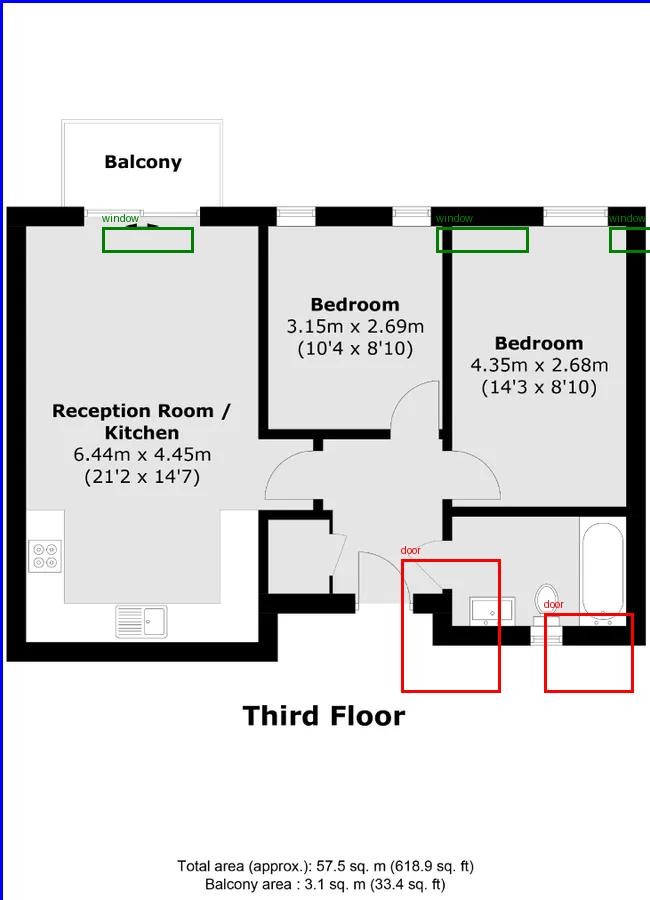
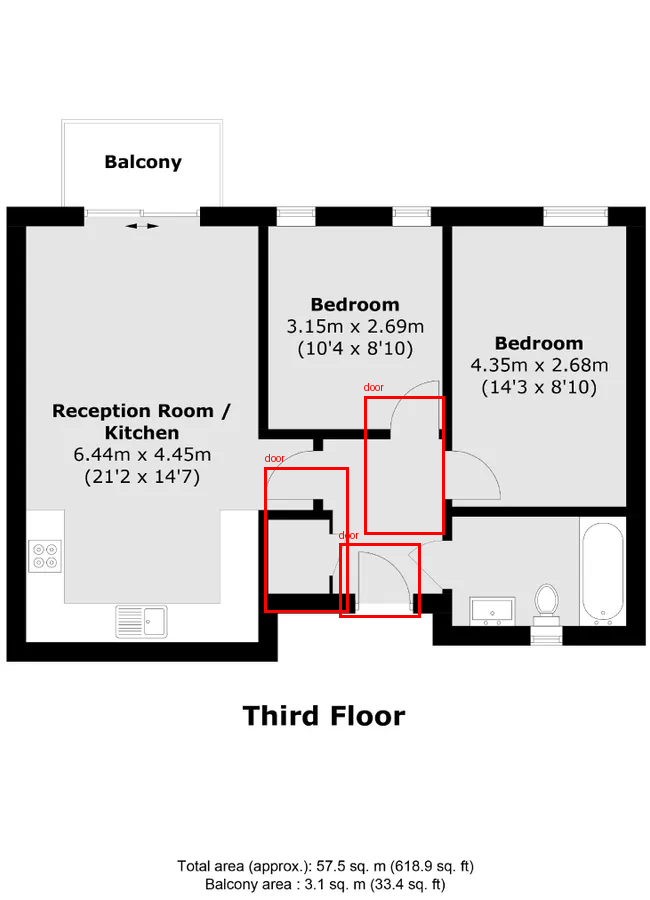
update examples

diff --git a/examples/chatgpt5_2025_11_09/model.py b/examples/chatgpt5_2025_11_09/model.py
@@ -1,86 +1,27 @@
-# Re-creating the given apartment plan with declarative-floorplan
-# The origin (0,0) is at the top-left of the canvas.
-# Units are arbitrary; proportions are chosen to match the image.
-
 from declarative_floorplan import (
     Floorplan, Vertex, Wall, Door, Window,
     Position as Pos,
     HorizontalConstraint as HC,
-    VerticalConstraint as VC,
+    VerticalConstraint as VC
 )
 
-with Floorplan("Third Floor – 2BR with Balcony") as fp:
-    # ------------------------------------------------------------
-    # Step 1 — Global positioning constraints (the "planes")
-    # ------------------------------------------------------------
-    # Horizontal guide lines (y)
-    h_0   = HC(0)     # top exterior
-    h_420 = HC(420)   # line under the two bedrooms (top of corridor/bath)
-    h_700 = HC(700)   # bottom exterior
+with Floorplan("Third Floor") as fp:
+    # ---------------------------------------------
+    # Step 1 — Corrected Constraint Identification
+    # ---------------------------------------------
 
-    # Vertical guide lines (x)
-    v_0    = VC(0)     # left exterior
-    v_560  = VC(560)   # reception ↔ middle bedroom
-    v_780  = VC(780)   # middle bedroom ↔ right bedroom / corridor edge
-    v_900  = VC(900)   # corridor ↔ bathroom
-    v_1000 = VC(1000)  # right exterior
+    # Horizontal (Y) constraints
+    h_150 = HC(150)   # balcony top rail
+    h_200 = HC(200)   # balcony bottom / external top
+    h_340 = HC(340)   # reception ceiling / bedroom 1 top
+    h_445 = HC(445)   # hallway top (doors)
+    h_555 = HC(555)   # bathroom top
+    h_760 = HC(760)   # bottom external wall
 
-    # ------------------------------------------------------------
-    # Step 2 — Vertices and walls (room by room)
-    # ------------------------------------------------------------
-    # Outer rectangle corners
-    tl = Vertex("Exterior TL", constraints=[h_0,   v_0])
-    tr = Vertex("Exterior TR", constraints=[h_0,   v_1000])
-    br = Vertex("Exterior BR", constraints=[h_700, v_1000])
-    bl = Vertex("Exterior BL", constraints=[h_700, v_0])
-
-    # Inner grid intersections
-    t_v560 = Vertex("Top v560", constraints=[h_0,   v_560])
-    t_v780 = Vertex("Top v780", constraints=[h_0,   v_780])
-
-    c560_420 = Vertex("v560@h420", constraints=[h_420, v_560])
-    c780_420 = Vertex("v780@h420", constraints=[h_420, v_780])
-    c900_420 = Vertex("v900@h420", constraints=[h_420, v_900])
-    c1000_420 = Vertex("v1000@h420", constraints=[h_420, v_1000])
-
-    b_v560 = Vertex("Bottom v560", constraints=[h_700, v_560])
-    b_v780 = Vertex("Bottom v780", constraints=[h_700, v_780])
-    b_v900 = Vertex("Bottom v900", constraints=[h_700, v_900])
-
-    # --- Exterior walls
-    w_left   = Wall("Exterior Left",   start_vertex=tl, end_vertex=bl)
-    w_bottom = Wall("Exterior Bottom", start_vertex=bl, end_vertex=br)
-    w_right  = Wall("Exterior Right",  start_vertex=br, end_vertex=tr)
-    w_top    = Wall("Exterior Top",    start_vertex=tr, end_vertex=tl)
-
-    # --- Internal partitions
-    # Reception ↔ Bedrooms divider
-    w_v560_full = Wall("v560 (Reception/MidBed)", start_vertex=t_v560, end_vertex=b_v560)
-    # Mid bed ↔ Right bed / corridor divider
-    w_v780_full = Wall("v780 (MidBed/RightSide)", start_vertex=t_v780, end_vertex=b_v780)
-    # Top-of-corridor line (under both bedrooms, across to exterior right)
-    w_h420 = Wall("h420 (Top of Corridor/Bath)", start_vertex=c560_420, end_vertex=c1000_420)
-    # Corridor ↔ Bathroom divider
-    w_v900 = Wall("v900 (Corridor/Bath)", start_vertex=c900_420, end_vertex=b_v900)
-
-    # ------------------------------------------------------------
-    # Step 3 — Openings (doors & windows)
-    # ------------------------------------------------------------
-    # Entry door from exterior into corridor (bottom wall, roughly centered)
-    Door("Entry Door", wall=w_bottom, position=650, width=90)
-
-    # Door from corridor to Middle Bedroom (on h420 between v560 and v780)
-    Door("Door to Middle Bedroom", wall=w_h420, position=Pos.CENTERED, width=80)
-
-    # Door from corridor to Right Bedroom (on v780 between h420 and bottom)
-    Door("Door to Right Bedroom", wall=w_v780_full, position=520, width=80)  # measured from top of that wall
-
-    # Door from corridor to Bathroom (on v900 between h420 and bottom)
-    Door("Bathroom Door", wall=w_v900, position=Pos.CENTERED, width=80)
-
-    # Balcony doors (large opening on top wall over the Reception Room)
-    Door("Balcony Doors", wall=w_top, position=160, width=180)
-
-    # Windows along the top wall above the two bedrooms
-    Window("Mid Bedroom Window", wall=w_top, position=650, width=90)
-    Window("Right Bedroom Window", wall=w_top, position=880, width=90)
+    # Vertical (X) constraints
+    v_25  = VC(25)    # left external wall
+    v_245 = VC(245)   # reception → bedroom1 wall
+    v_325 = VC(325)   # bedroom1 left wall
+    v_450 = VC(450)   # bedroom1 → bedroom2 wall
+    v_515 = VC(515)   # bathroom left wall
+    v_640 = VC(640)   # right external wall

diff --git a/bbox_overlays/visualize_bbox.py b/bbox_overlays/visualize_bbox.py
@@ -84,7 +84,7 @@ def process_json_file(json_path: Path, bbox_dir: Path):
 
 def main():
     """Process all JSON files in the bbox directory."""
-    bbox_dir = Path('bbox')
+    bbox_dir = Path('bbox_overlays')
 
     if not bbox_dir.exists():
         print(f"Error: {bbox_dir} directory not found")

diff --git a/scripts/convert_cc_svg.py b/scripts/convert_cc_svg.py
@@ -1,0 +1,3 @@
+
+
+
